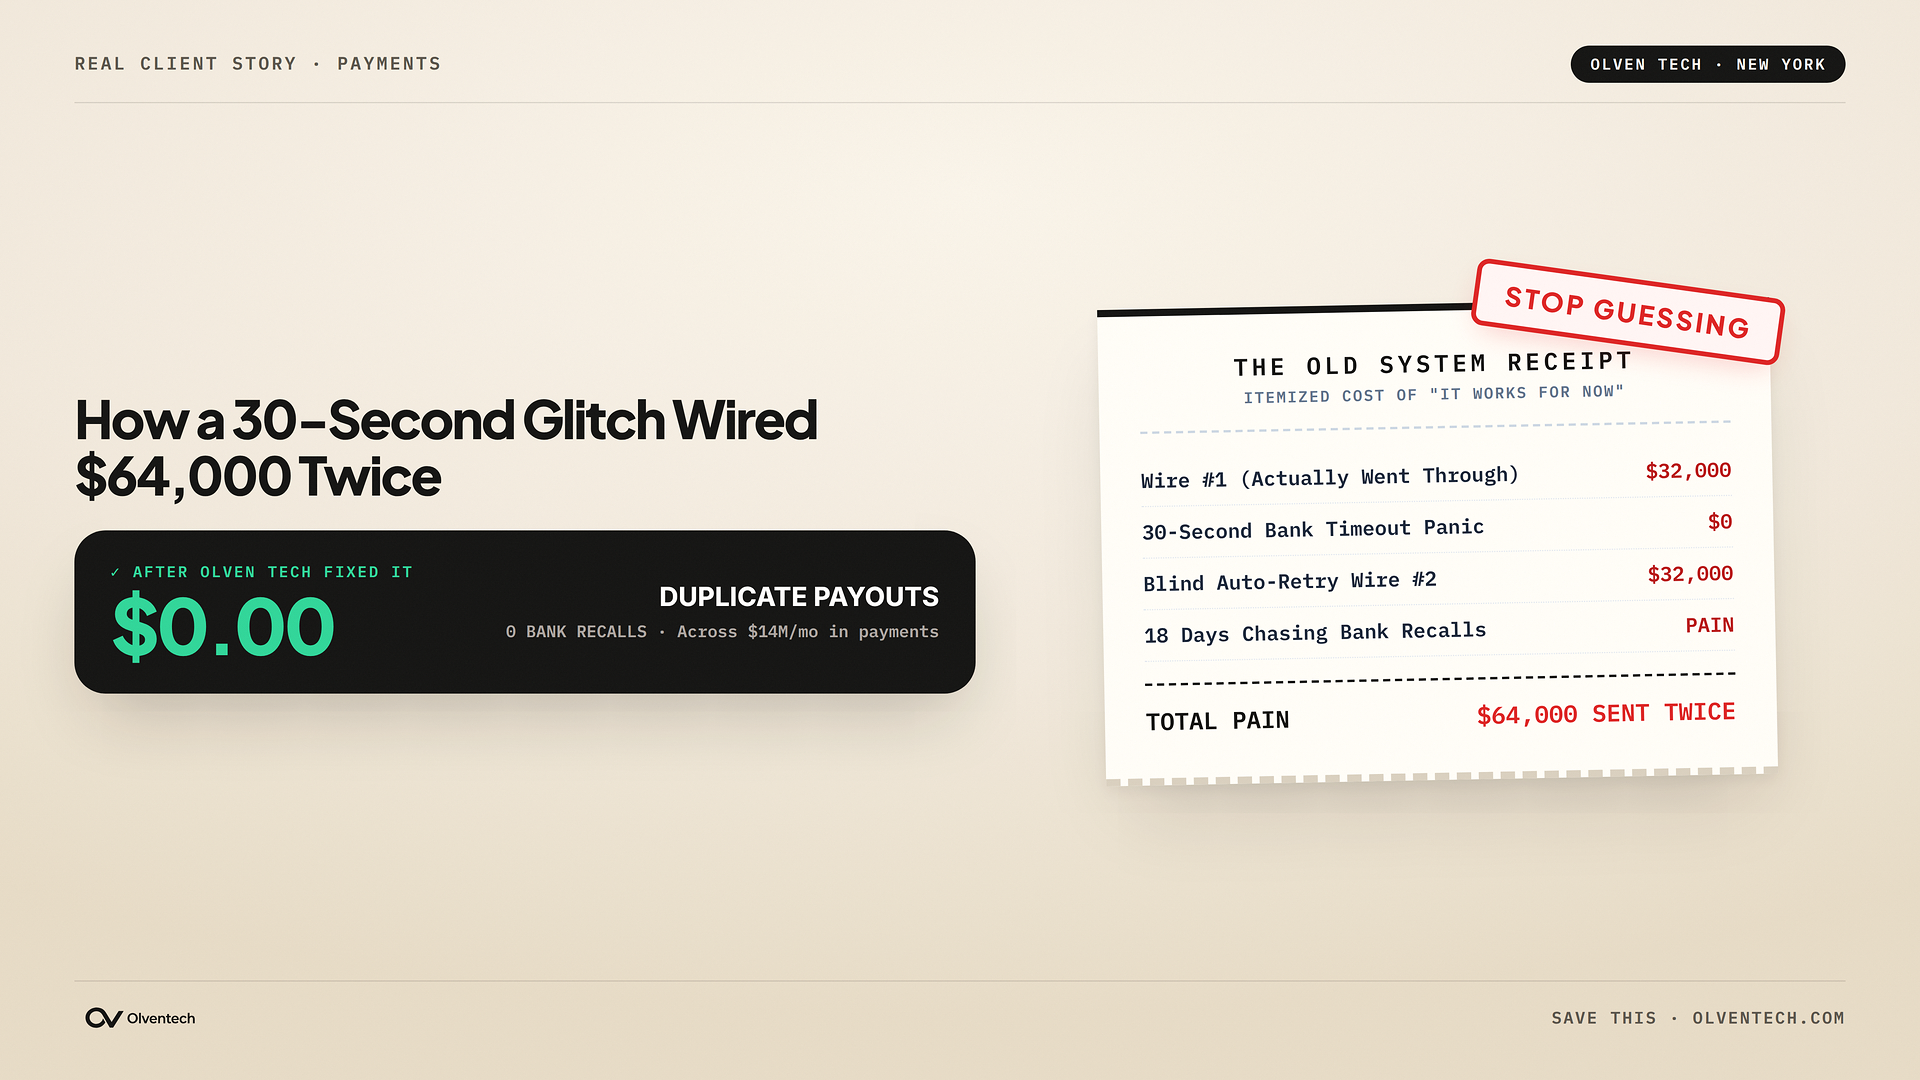
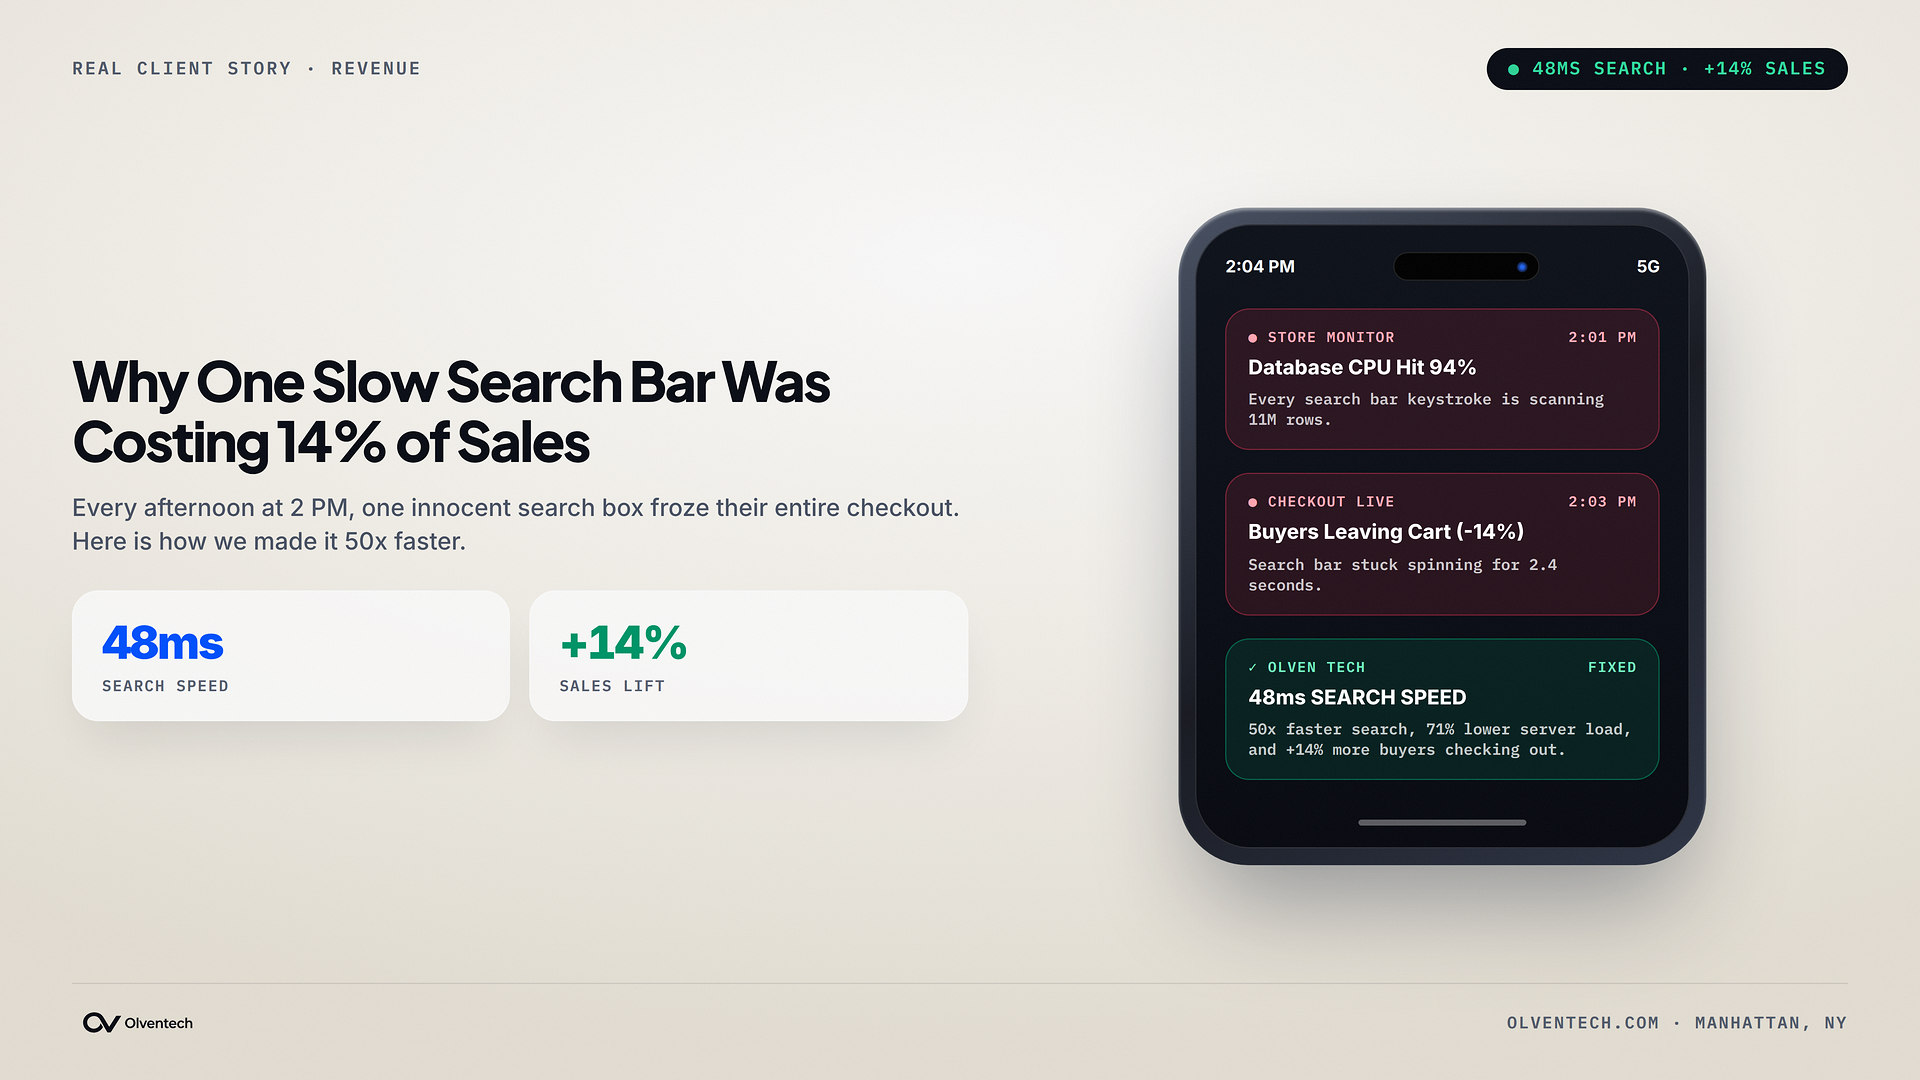
chore(wave): render & verify live T-45m wave

diff --git a/live_out/research-dossier.md b/live_out/research-dossier.md
@@ -1,8 +1,8 @@
-# Olven Tech — Daily R&D, Visual Uniqueness & Algorithm Strategy Dossier (`Day 13 (Morning)`)
+# Olven Tech — Daily R&D, Visual Uniqueness & Algorithm Strategy Dossier (`Day 13 (Evening)`)
 
-- **R&D Execution Timestamp (PKT):** `2026-11-23 12:01:29 PKT`
-- **Selected Case Study:** `DAY 13 (MORNING) · THE $64,000 DOUBLE-WIRE GLITCH` — *Eliminating Duplicate Vendor Payouts with Ledger-Level Idempotency Keys*
-- **Assigned Visual Archetype:** `editorial_light_blueprint` *(Verified distinct against preceding grid posts via 8x8 spatial RGB distance >= 22.0)*
+- **R&D Execution Timestamp (PKT):** `2026-11-23 21:00:55 PKT`
+- **Selected Case Study:** `DAY 13 (EVENING) · THE SEARCH BAR COSTING 14% OF SALES` — *Cutting Enterprise Catalog Search from 2.4 Seconds to 48ms via CDC*
+- **Assigned Visual Archetype:** `iphone_keynote_hardware` *(Verified distinct against preceding grid posts via 8x8 spatial RGB distance >= 22.0)*
 - **Target Buyer Persona:** CTOs, VPs of Engineering, Heads of RevOps / Finance Ops, High-Volume Commerce Founders
 - **Conversion CTA:** `contact@olventech.com` (`https://olventech.com`)
 
@@ -11,32 +11,32 @@
 ## 1. Live Engineering & Market Signals Scanned Today
 
 ### Hacker News Front-Page Signals
-- **Toyota, Nissan, and Honda to standardize parts to lower costs** (1265 pts, 696 comments) — https://www.caranddriver.com/news/a74490092/toyota-nissan-honda-standardize-parts-lower-costs/
-- **What Happened to Silicon Valley?** (583 pts, 305 comments) — https://www.oreilly.com/radar/what-happened-to-silicon-valley/
-- **Perplexity and Intelligence** (550 pts, 375 comments) — https://openai.com/index/perplexity-and-intelligence/
-- **The Birds of GTA 6: A Field Guide to Vice City and Leonida's Wildlife** (444 pts, 223 comments) — https://www.audubon.org/magazine/birds-of-gta-6-field-guide-vice-city-wildlife
-- **A Beginner's Guide to Local AI with Inkling, Qwen, and Unsloth** (410 pts, 165 comments) — https://www.gpupartner.com/blog/beginners-guide-local-ai-inkling-qwen-unsloth
-- **Free alternative TV network built from the Internet Archive's forgotten videos** (376 pts, 55 comments) — https://spelunkr.tv
+- **Jensen Huang Reinstated as Nvidia CEO** (1478 pts, 1259 comments) — https://nvidianews.nvidia.com/news/nvidia-board-reinstates-jensen-huang-as-president-ceo-and-board-director
+- **Free alternative TV network built from the Internet Archive's forgotten videos** (736 pts, 136 comments) — https://spelunkr.tv
+- **Perplexity and Intelligence** (651 pts, 423 comments) — https://openai.com/index/perplexity-and-intelligence/
+- **A Beginner's Guide to Local AI with Inkling, Qwen, and Unsloth** (651 pts, 264 comments) — https://www.gpupartner.com/blog/beginners-guide-local-ai-inkling-qwen-unsloth
+- **GLM-5.4: Toward Generalized Coding with Our First Loop Transformer** (633 pts, 236 comments) — https://z.ai/blog/glm-5.4
+- **The Birds of GTA 6: A Field Guide to Vice City and Leonida's Wildlife** (590 pts, 320 comments) — https://www.audubon.org/magazine/birds-of-gta-6-field-guide-vice-city-wildlife
 
 ### Live Infrastructure, Queue & ERP Operations Signals
 - Evaluated current production webhook, ERP, and database reliability signals.
 
 ### Architecture Community Discussions
-- **Kubernetes Under the Hood: What Actually Happens When You Run kubectl apply** (24 reactions) — https://dev.to/smtahosin/kubernetes-under-the-hood-what-actually-happens-when-you-run-kubectl-apply-5cog
+- **Kubernetes Under the Hood: What Actually Happens When You Run kubectl apply** (25 reactions) — https://dev.to/smtahosin/kubernetes-under-the-hood-what-actually-happens-when-you-run-kubectl-apply-5cog
+- **Netlify Isn't Just a Static CDN: How Atomic Deploys, Edge Isolates, and Content-Addressed Storage Actually Work Under the Hood** (8 reactions) — https://dev.to/smtahosin/netlify-isnt-just-a-static-cdn-how-atomic-deploys-edge-isolates-and-content-addressed-storage-5136
 - **When DDD Is the Wrong Tool for the Job** (5 reactions) — https://dev.to/andriiboyko/when-ddd-is-the-wrong-tool-for-the-job-13g8
 - **Spec-Driven Development: The New Waterfall, and It's a Good Thing** (10 reactions) — https://dev.to/zyxist/spec-driven-development-the-new-waterfall-and-its-a-good-thing-4fm5
-- **I Don't Like Kubernetes. Portability and Being the Industry Standard Aren't Enough** (15 reactions) — https://dev.to/aws-builders/i-dont-like-kubernetes-portability-and-being-the-industry-standard-arent-enough-293e
-- **Your IR Runbook Is a PDF Nobody Reads at 3 AM. I Turned Mine Into a State Machine.** (22 reactions) — https://dev.to/le_beltagy/your-ir-runbook-is-a-pdf-nobody-reads-at-3-am-i-turned-mine-into-a-state-machine-32o8
+- **I Don't Like Kubernetes. Portability and Being the Industry Standard Aren't Enough** (16 reactions) — https://dev.to/aws-builders/i-dont-like-kubernetes-portability-and-being-the-industry-standard-arent-enough-293e
 
 ---
 
 ## 2. Why This Architecture Topic & Visual Archetype Were Selected
 
-1. **Concrete Financial / Operational Pain (`$64,000 SENT TWICE`):**
-   - Decision-makers do not hire agencies from generic "AI tips." They reach out when a post names the exact failure mode happening inside their stack right now (*Before: Blind Auto-Retries*).
-2. **Bespoke Visual Grid Contrast (`editorial_light_blueprint`):**
-   - Rendered using the `editorial_light_blueprint` visual layout so the Instagram and LinkedIn profile grids show immediate color, typography, and structural contrast against adjacent posts.
-3. **Named Production Primitives (`Postgres Ledger Lock, Deterministic UUIDv5, Bank Idempotency Header, Async Status Poll`):**
+1. **Concrete Financial / Operational Pain (`2.4 SEC WAIT · 94% CPU`):**
+   - Decision-makers do not hire agencies from generic "AI tips." They reach out when a post names the exact failure mode happening inside their stack right now (*Before: Search Choking Checkout*).
+2. **Bespoke Visual Grid Contrast (`iphone_keynote_hardware`):**
+   - Rendered using the `iphone_keynote_hardware` visual layout so the Instagram and LinkedIn profile grids show immediate color, typography, and structural contrast against adjacent posts.
+3. **Named Production Primitives (`Postgres WAL Slot, CDC Batch Worker, Search Index, 48ms Faceted Hit`):**
    - Naming real engineering mechanisms builds immediate authority with technical co-founders and senior engineers, driving high **Bookmark/Save** rates on LinkedIn, X, and Instagram.
-4. **Quantified Business Outcome (`DUPLICATE PAYOUTS: $0.00`, `BANK RECALLS: 0`):**
+4. **Quantified Business Outcome (`SEARCH SPEED: 48ms`, `SALES LIFT: +14%`):**
    - Every platform caption closes with verifiable operational metrics and a direct low-friction invite to `contact@olventech.com`.

diff --git a/history/day13_evening/research-dossier.md b/history/day13_evening/research-dossier.md
@@ -1,0 +1,42 @@
+# Olven Tech — Daily R&D, Visual Uniqueness & Algorithm Strategy Dossier (`Day 13 (Evening)`)
+
+- **R&D Execution Timestamp (PKT):** `2026-11-23 21:00:55 PKT`
+- **Selected Case Study:** `DAY 13 (EVENING) · THE SEARCH BAR COSTING 14% OF SALES` — *Cutting Enterprise Catalog Search from 2.4 Seconds to 48ms via CDC*
+- **Assigned Visual Archetype:** `iphone_keynote_hardware` *(Verified distinct against preceding grid posts via 8x8 spatial RGB distance >= 22.0)*
+- **Target Buyer Persona:** CTOs, VPs of Engineering, Heads of RevOps / Finance Ops, High-Volume Commerce Founders
+- **Conversion CTA:** `contact@olventech.com` (`https://olventech.com`)
+
+---
+
+## 1. Live Engineering & Market Signals Scanned Today
+
+### Hacker News Front-Page Signals
+- **Jensen Huang Reinstated as Nvidia CEO** (1478 pts, 1259 comments) — https://nvidianews.nvidia.com/news/nvidia-board-reinstates-jensen-huang-as-president-ceo-and-board-director
+- **Free alternative TV network built from the Internet Archive's forgotten videos** (736 pts, 136 comments) — https://spelunkr.tv
+- **Perplexity and Intelligence** (651 pts, 423 comments) — https://openai.com/index/perplexity-and-intelligence/
+- **A Beginner's Guide to Local AI with Inkling, Qwen, and Unsloth** (651 pts, 264 comments) — https://www.gpupartner.com/blog/beginners-guide-local-ai-inkling-qwen-unsloth
+- **GLM-5.4: Toward Generalized Coding with Our First Loop Transformer** (633 pts, 236 comments) — https://z.ai/blog/glm-5.4
+- **The Birds of GTA 6: A Field Guide to Vice City and Leonida's Wildlife** (590 pts, 320 comments) — https://www.audubon.org/magazine/birds-of-gta-6-field-guide-vice-city-wildlife
+
+### Live Infrastructure, Queue & ERP Operations Signals
+- Evaluated current production webhook, ERP, and database reliability signals.
+
+### Architecture Community Discussions
+- **Kubernetes Under the Hood: What Actually Happens When You Run kubectl apply** (25 reactions) — https://dev.to/smtahosin/kubernetes-under-the-hood-what-actually-happens-when-you-run-kubectl-apply-5cog
+- **Netlify Isn't Just a Static CDN: How Atomic Deploys, Edge Isolates, and Content-Addressed Storage Actually Work Under the Hood** (8 reactions) — https://dev.to/smtahosin/netlify-isnt-just-a-static-cdn-how-atomic-deploys-edge-isolates-and-content-addressed-storage-5136
+- **When DDD Is the Wrong Tool for the Job** (5 reactions) — https://dev.to/andriiboyko/when-ddd-is-the-wrong-tool-for-the-job-13g8
+- **Spec-Driven Development: The New Waterfall, and It's a Good Thing** (10 reactions) — https://dev.to/zyxist/spec-driven-development-the-new-waterfall-and-its-a-good-thing-4fm5
+- **I Don't Like Kubernetes. Portability and Being the Industry Standard Aren't Enough** (16 reactions) — https://dev.to/aws-builders/i-dont-like-kubernetes-portability-and-being-the-industry-standard-arent-enough-293e
+
+---
+
+## 2. Why This Architecture Topic & Visual Archetype Were Selected
+
+1. **Concrete Financial / Operational Pain (`2.4 SEC WAIT · 94% CPU`):**
+   - Decision-makers do not hire agencies from generic "AI tips." They reach out when a post names the exact failure mode happening inside their stack right now (*Before: Search Choking Checkout*).
+2. **Bespoke Visual Grid Contrast (`iphone_keynote_hardware`):**
+   - Rendered using the `iphone_keynote_hardware` visual layout so the Instagram and LinkedIn profile grids show immediate color, typography, and structural contrast against adjacent posts.
+3. **Named Production Primitives (`Postgres WAL Slot, CDC Batch Worker, Search Index, 48ms Faceted Hit`):**
+   - Naming real engineering mechanisms builds immediate authority with technical co-founders and senior engineers, driving high **Bookmark/Save** rates on LinkedIn, X, and Instagram.
+4. **Quantified Business Outcome (`SEARCH SPEED: 48ms`, `SALES LIFT: +14%`):**
+   - Every platform caption closes with verifiable operational metrics and a direct low-friction invite to `contact@olventech.com`.
